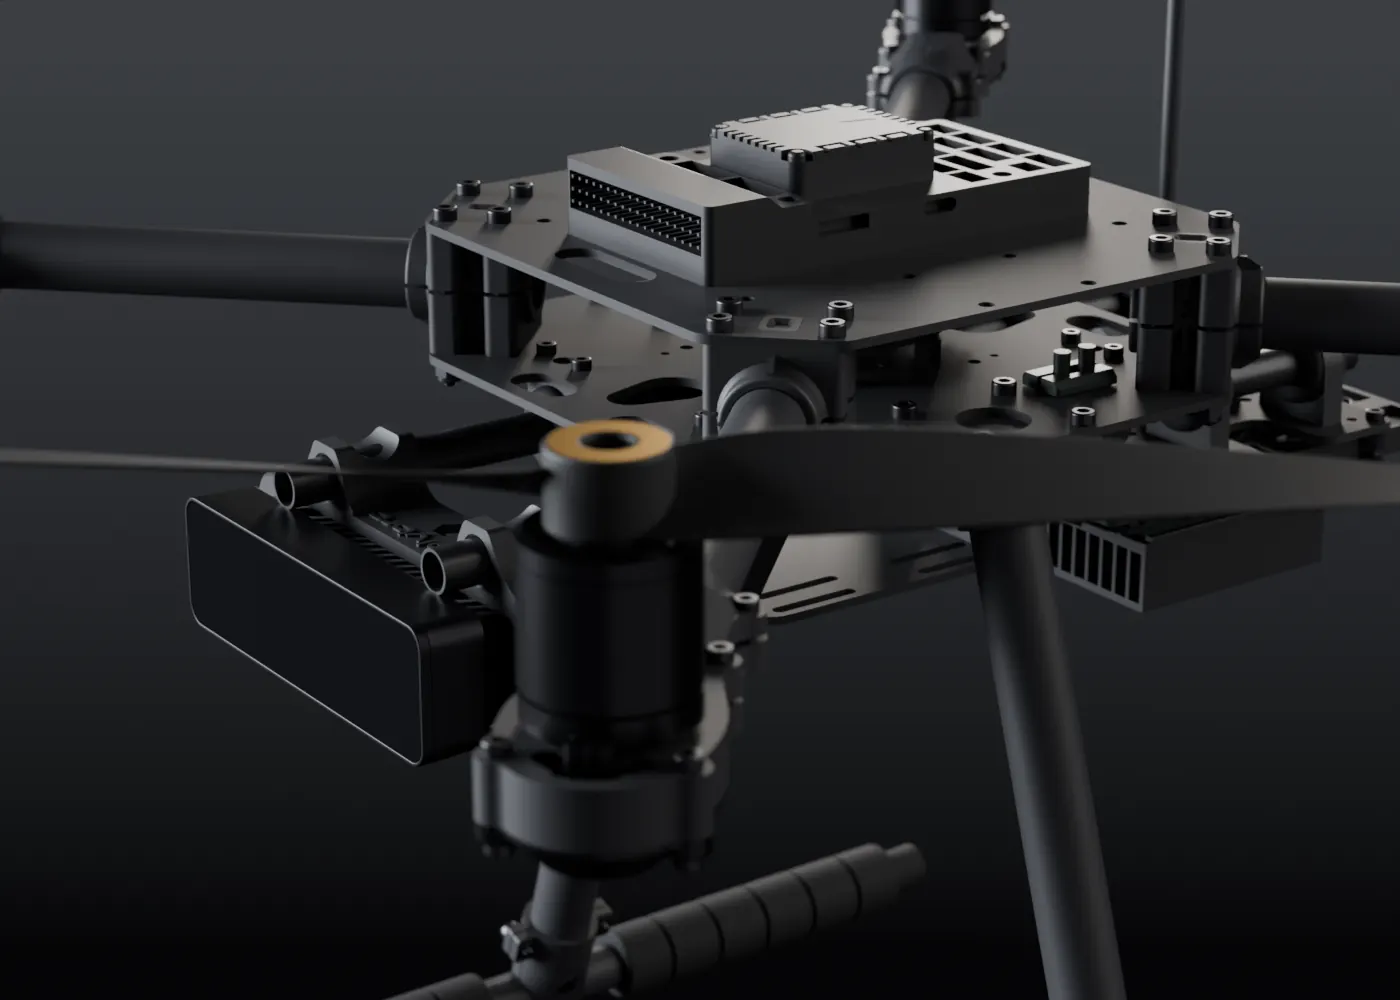
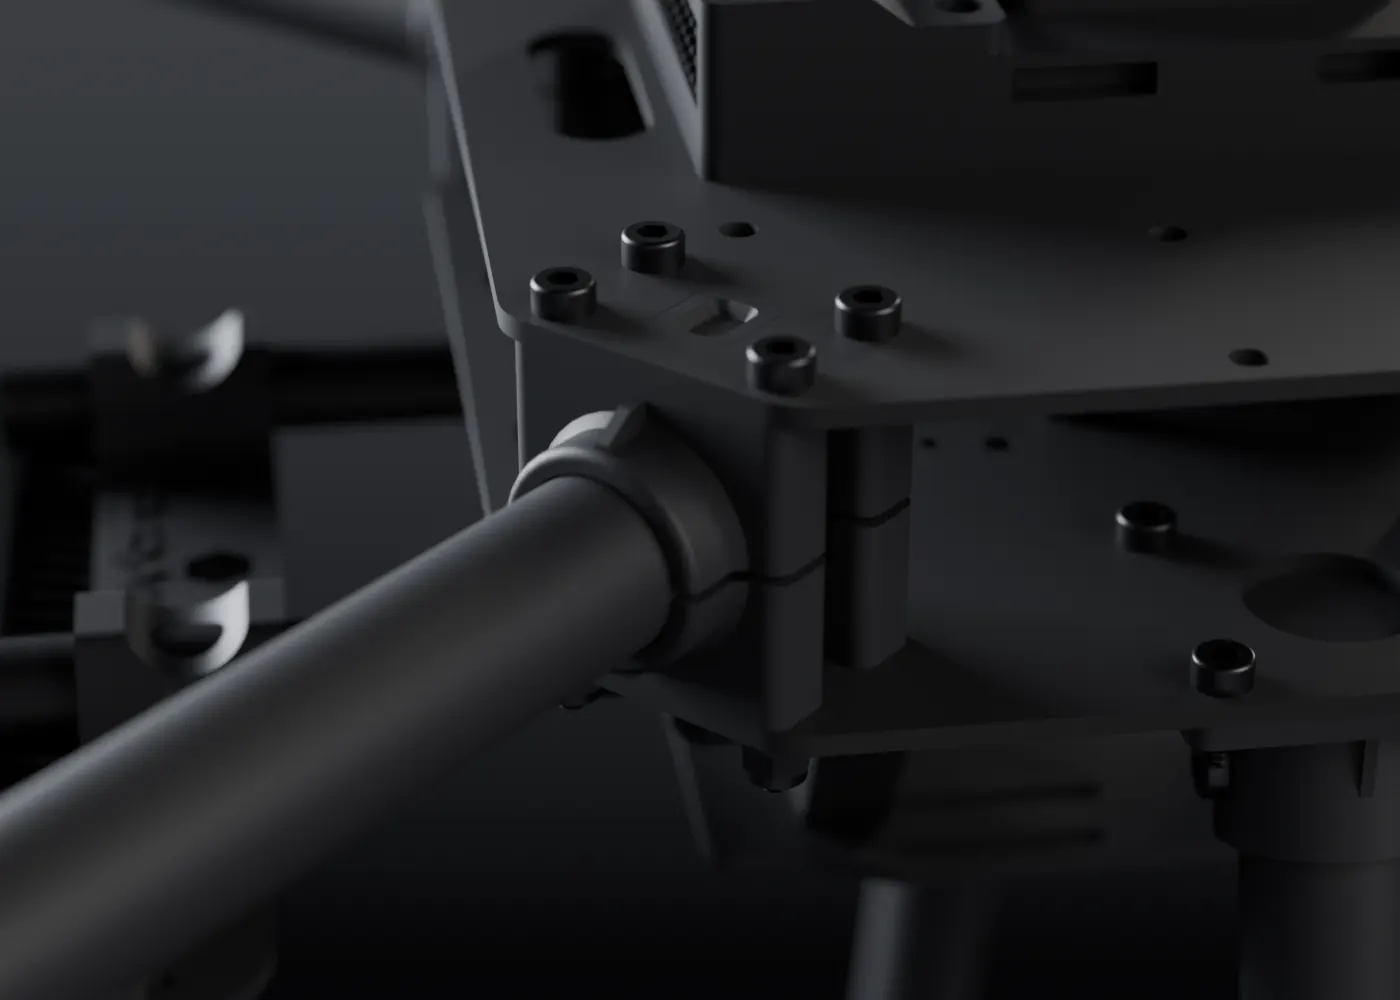
Reshoot the two tiles whose pictures did not match their captions
An audit of the gallery turned up two renders making claims the image did not
support. Both were framing, not geometry or materials.

cu-arm said "carbon arm and clamp" and showed the whole aircraft. The shot aimed
at the body centre with a 170 mm subject, so the clamp it names was a small part
of a wide three-quarter view. It is now the inboard clamp itself, 40 mm across,
where the carbon tube meets the body plate.

The caption also said the Holybro name "shows in close-up". It did not, in that
render or any other. The embossing is real and in Holybro's CAD, but it is on
the motor mounts, not the arm clamps, and nothing we ship is framed on one. The
caption no longer claims it and docs/BRAND.md now says which part carries it.

cu-oakd described a "dark glass front panel" and rendered a white slab. The
material was right all along: oak_glass is near-black at roughness 0.08, which
makes it a mirror, and the old angle pointed it straight at a uniform grey
world. Moving the camera to 205 degrees azimuth and 12 above lets the panel read
as the dark glass it is. Mean luminance drops from 51 to 34 with no clipping.

The radio is also now named in full on first mention, as _localai/conventions.md
asks: Heltec Wireless Stick V3.

diff --git a/index.html b/index.html
@@ -370,7 +370,7 @@
           <img src="assets/renders/cu-jetson.webp" width="1400" height="1000" loading="lazy" alt="The Jetson Orin Nano developer kit mounted beneath the payload shelf, its heatsink fins, fan and connector bank facing the camera, with the Heltec LoRa stick standing on the shelf edge above it">
         </figure>
         <h3>NVIDIA Jetson Orin Nano &amp; LoRa radio</h3>
-        <p>The companion computer, under the payload shelf, with the 915&nbsp;MHz radio on the shelf edge beside it. It runs the command server and talks MAVLink to the 6X. The radio is a Wireless Stick V3; the geometry here was exported as the Lite, so the render is missing its small OLED.</p>
+        <p>The companion computer, under the payload shelf, with the 915&nbsp;MHz radio on the shelf edge beside it. It runs the command server and talks MAVLink to the 6X. The radio is a Heltec Wireless Stick V3; the geometry here was exported as the Lite, so the render is missing its small OLED.</p>
       </div>
 
       <div class="tile">
@@ -399,10 +399,10 @@
 
       <div class="tile">
         <figure>
-          <img src="assets/renders/cu-arm.webp" width="1400" height="1000" loading="lazy" alt="A carbon fibre arm tube held in its moulded clamp, with the Holybro name embossed on the clamp body">
+          <img src="assets/renders/cu-arm.webp" width="1400" height="1000" loading="lazy" alt="A carbon fibre arm tube entering its moulded two-piece clamp where the arm meets the body plate, with the clamp screws visible">
         </figure>
         <h3>Carbon arm and clamp</h3>
-        <p>One of four, on a 500 mm wheelbase. The Holybro name is embossed in their own CAD, so it shows in close-up.</p>
+        <p>One of four, on a 500&nbsp;mm wheelbase. The tube is held in a moulded two-piece clamp where it meets the body plate.</p>
       </div>
     </div>
   </section>

diff --git a/docs/BRAND.md b/docs/BRAND.md
@@ -174,9 +174,10 @@ None of those CAD files are committed here. Only the rendered images are, and a
 render of hardware we own is our own picture of our own aircraft. That said:
 
 - **The manufacturers' marks appear on their parts.** "Holybro" is embossed on
-  the arm clamps in their CAD, so it shows in close-ups. That is the hardware
-  having a name on it, not us putting someone's wordmark into our design, and
-  the rule above still holds: we add nobody's mark to anything we draw.
+  the motor mounts in their CAD, so it would show in any close-up framed on one.
+  None of the shipped renders is, as it happens, but the rule is the same if one
+  ever is: that is the hardware having a name on it, not us putting someone's
+  wordmark into our design, and we add nobody's mark to anything we draw.
 - **Product photographs are a different thing** and are deliberately not in this
   repository. A render we made is ours; a photograph somebody else shot is
   theirs, and this repo is MIT, which would imply a licence we cannot grant.
